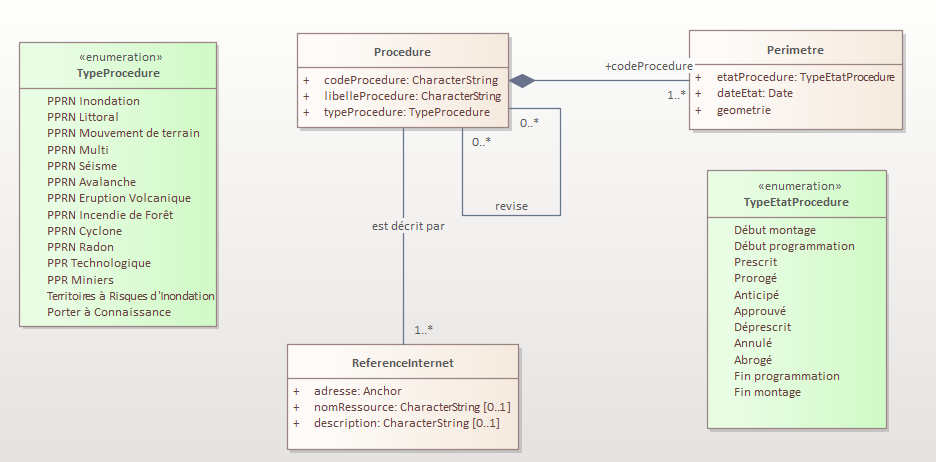
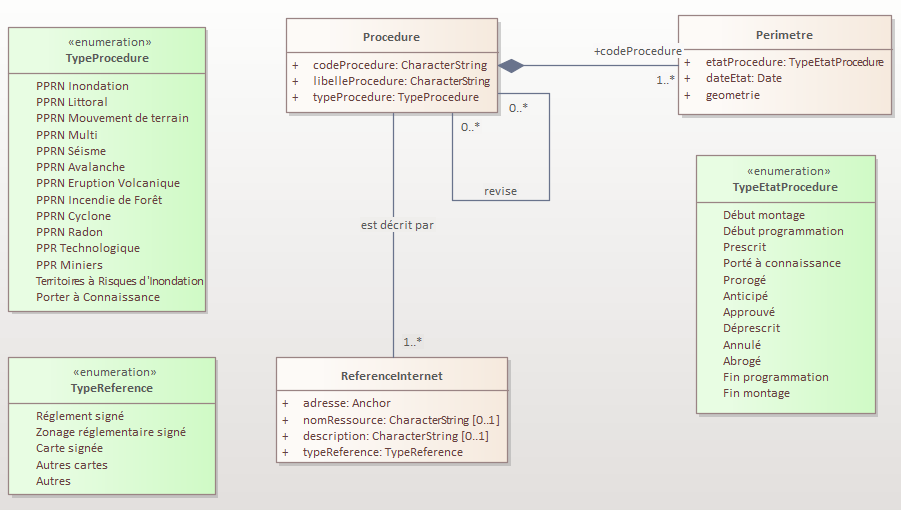
Ajout Type référence internet

diff --git a/standards/Geostandards-risques-commun/Document.md b/standards/Geostandards-risques-commun/Document.md
@@ -284,6 +284,7 @@ Les ressources internets liées à une procédure donnée (par exemple la public
 |-|-|-|-|-|
 | adresse | Adresse internet de la ressource (URL) | CharacterString | formalisme d'URL à respecter | 1..1 | 
 | nomRessource | Nom de la ressource référencée sur Internet | CharacterString | Saisie Libre | 0..1 (Saisie recommandée) |
+| typeReference | Catégorisation de la ressource référencée sur Internet. Ce champ permet d'indiquer le type de document référencé en fonction des procédures | Enumeration [TypeReference](#enumeration-typereference) | Celles de l'énumération | 1..1 |
 | description | Description de la ressource référencée sur Internet. Ce champ peut permettre notamment d'indiquer le type de ressource (site web, page HTML, document PDF, ...) | CharacterString | Saisie libre | 0..1 |
 
 
@@ -327,6 +328,19 @@ Le tableau suivant liste les différents états possibles d'une procédure appli
 | Annulé | Le périmètre n'est plus opposable avec effet rétroactif |
 | Abrogé | Le périmètren'est plus opposable sans effet rétroactif |
 
+
+#### Enumeration *TypeReference*
+
+Le tableau suivant liste les différents types de documents qui peuvent être référencés dans le cadre d'une procédure
+
+
+| Libellé | Description |
+|-|-|
+| Règlement signé | (Utilisation dans le cdre d'un PPR) |
+| Zonage réglementaire signé | (Utilisation dans le cdre d'un PPR) |
+| Cartes signées | (Utilisation dans le cadre d'un PPR ou de la Directive Inondation) |
+| Autres cartes | (Utilisation dans toutes les procédures) |
+| Autres | Tout autre document (Utilisation dans toutes les procédures) |
 
 
 ### Thématique Aléas
